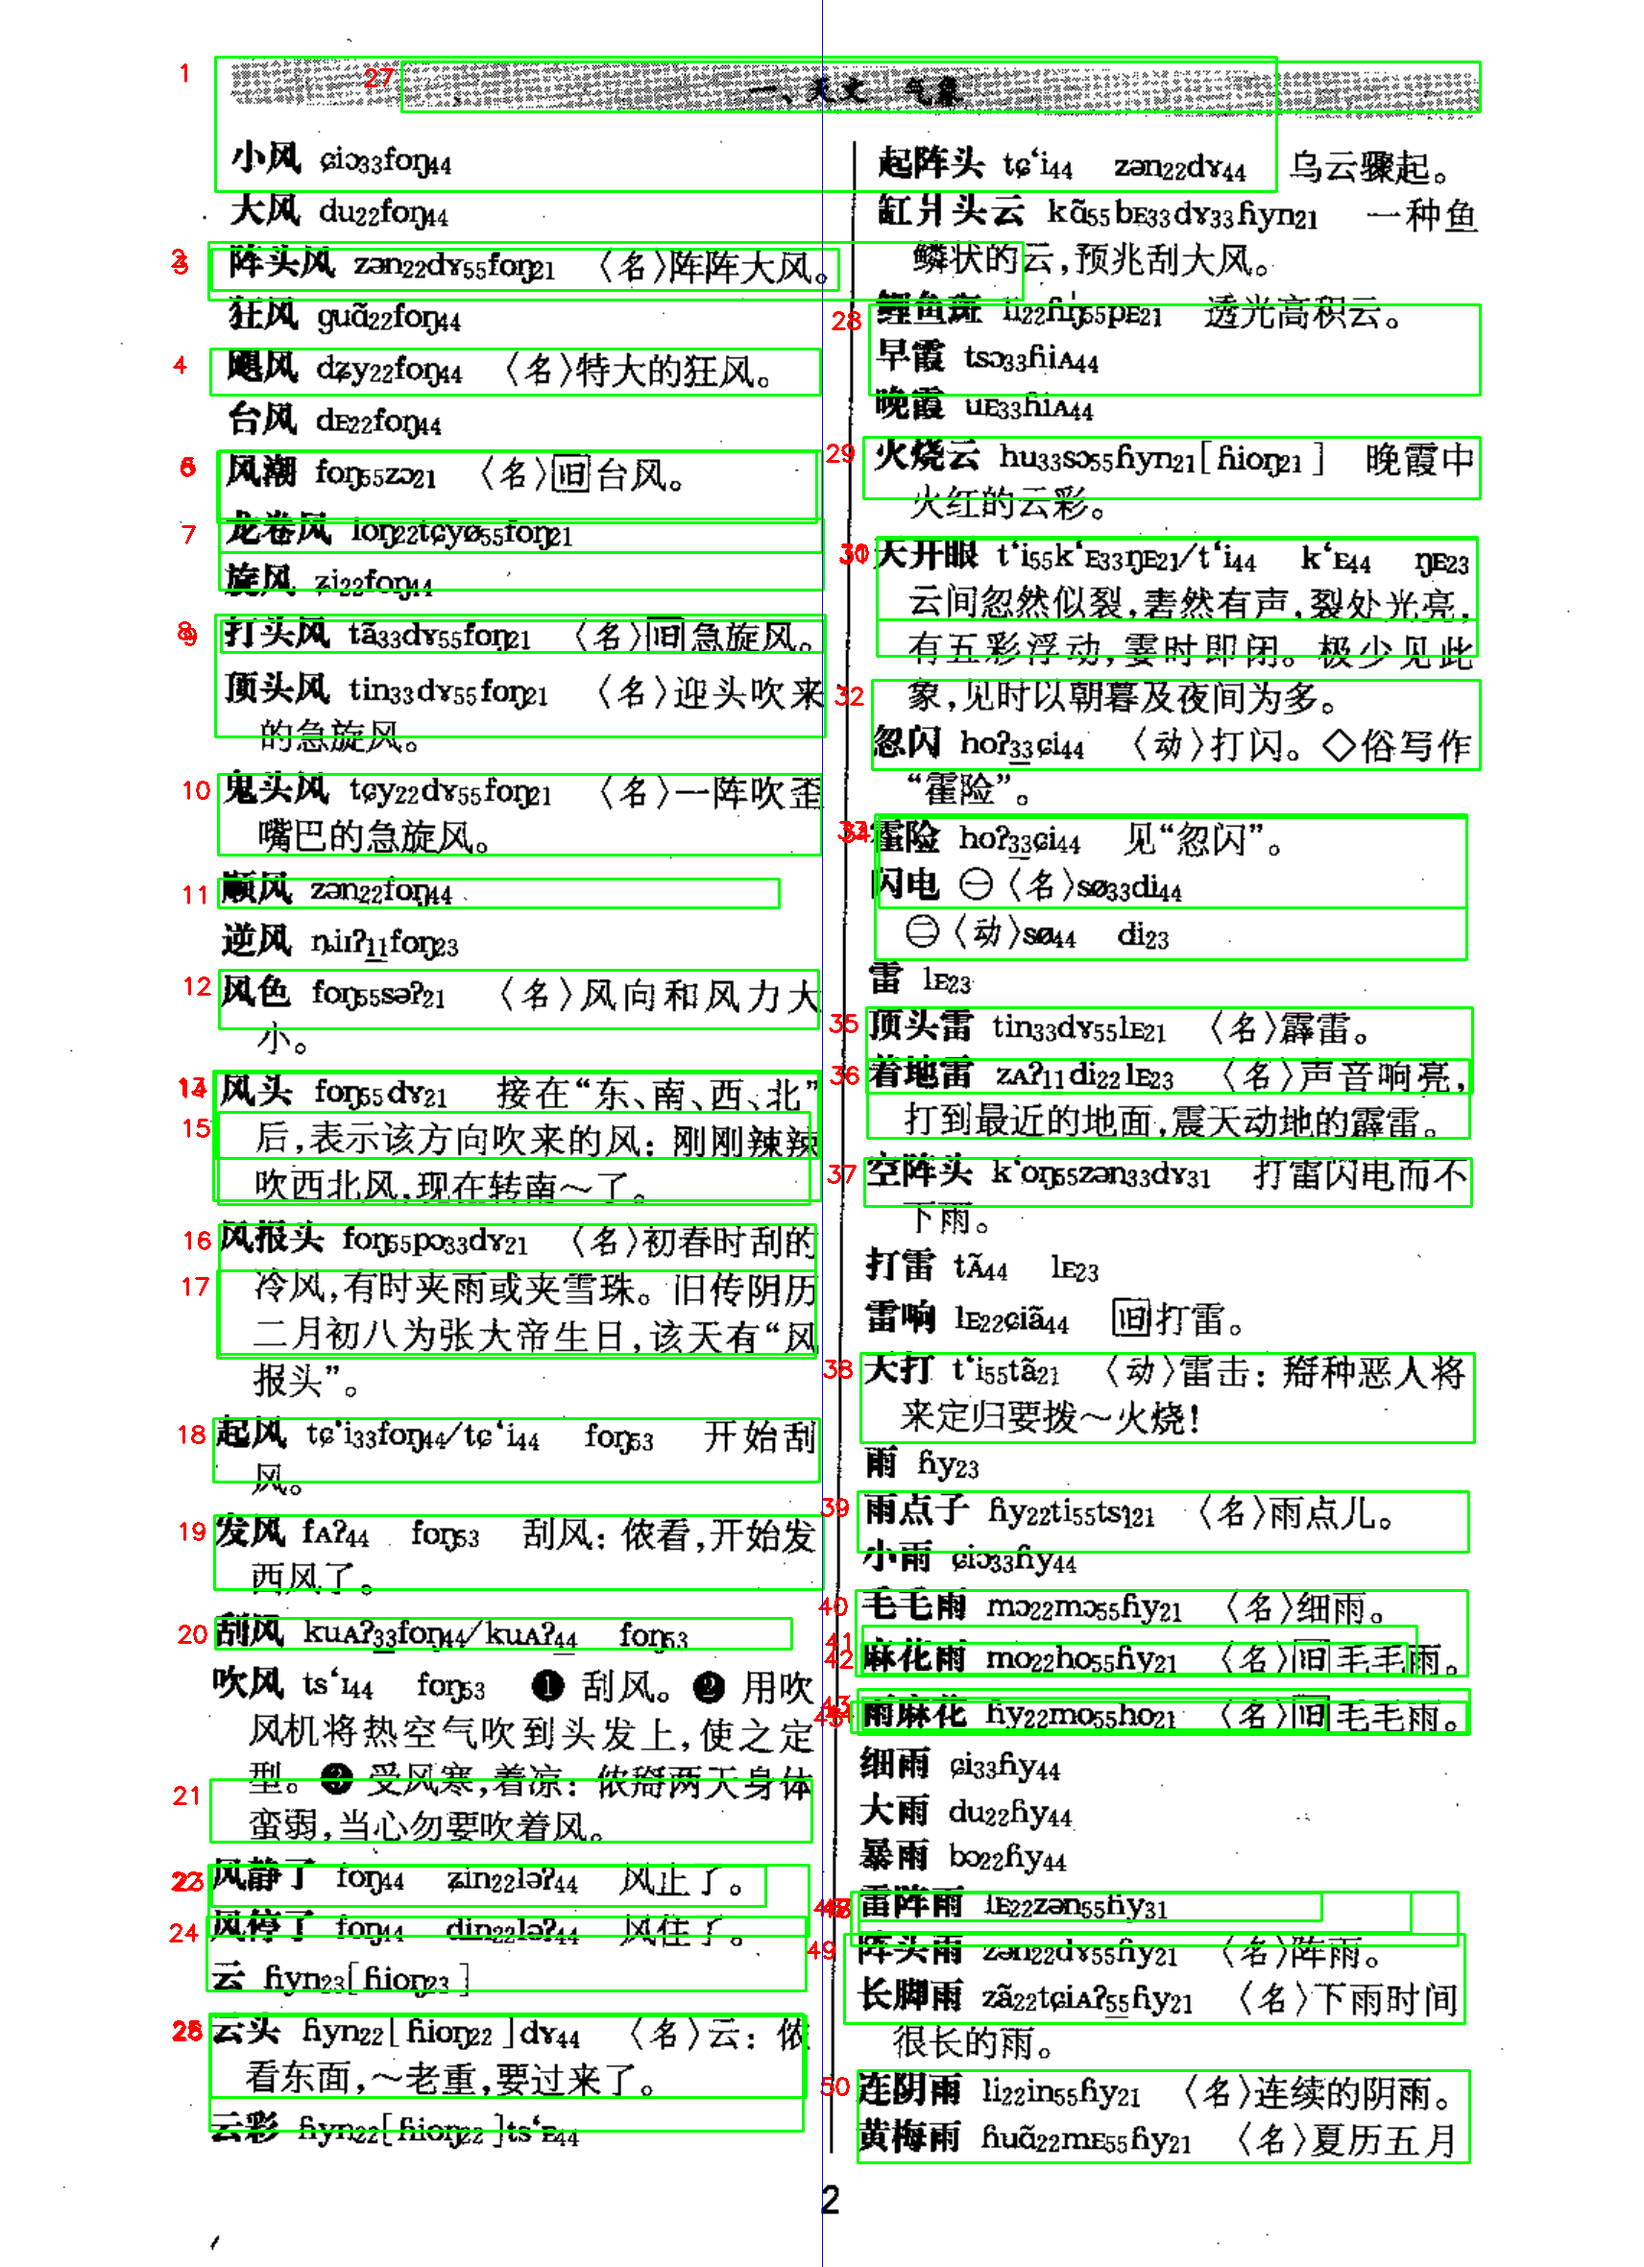
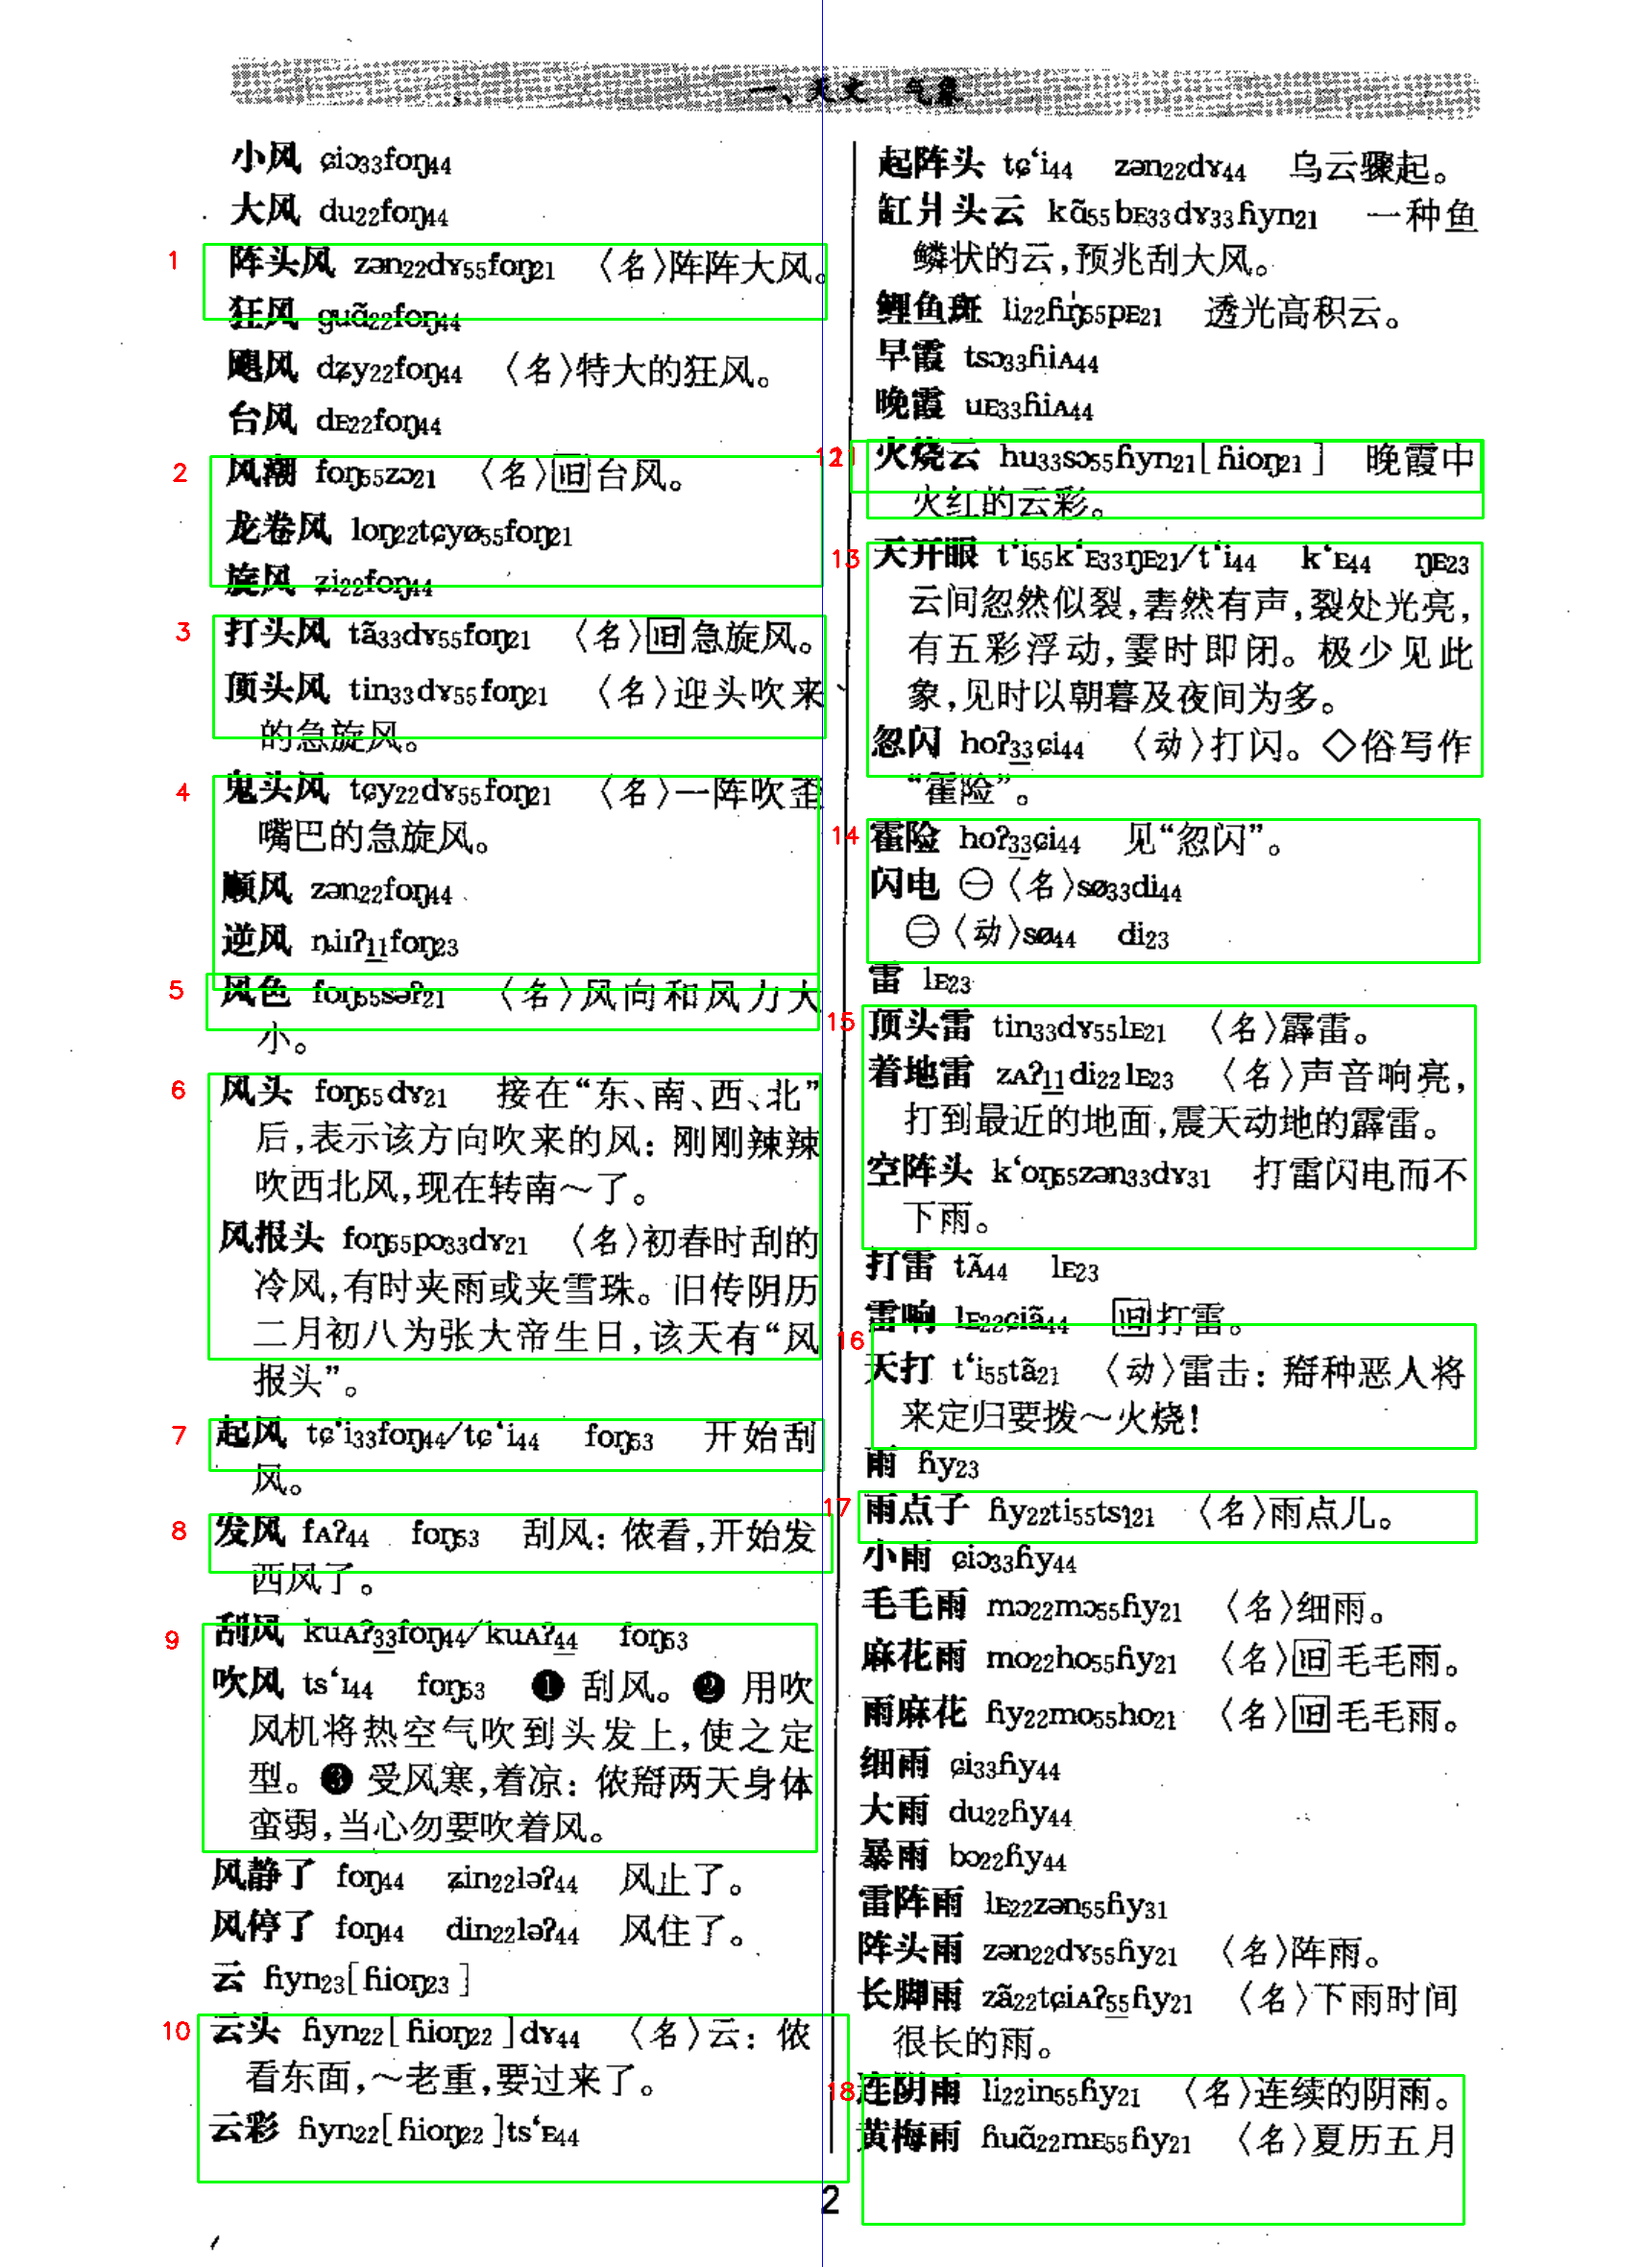
3.5

diff --git a/ai_ocr_images.py b/ai_ocr_images.py
@@ -7,7 +7,7 @@ from ultralytics import YOLO
 from paddleocr import PaddleOCR
 import logging
 
-MODEL_PATH = './runs/detect/shanghai_dict_v1-2/weights/best.pt'
+MODEL_PATH = './runs/detect/shanghai_dict_v1/weights/best.pt'
 IMAGE_PATH = './picture/temp_page_8.png'
 OUTPUT_CSV = 'shanghai_final_clean.csv'
 

diff --git a/yolo_debug_viewer.py b/yolo_debug_viewer.py
@@ -2,7 +2,7 @@ import cv2
 import os
 from ultralytics import YOLO
 
-MODEL_PATH = './runs/detect/shanghai_dict_v1-2/weights/best.pt'
+MODEL_PATH = './runs/detect/shanghai_dict_v1/weights/best.pt'
 IMAGE_PATH = './picture/temp_page_8.png'
 DEBUG_OUTPUT = './debug_visual.png'
 
